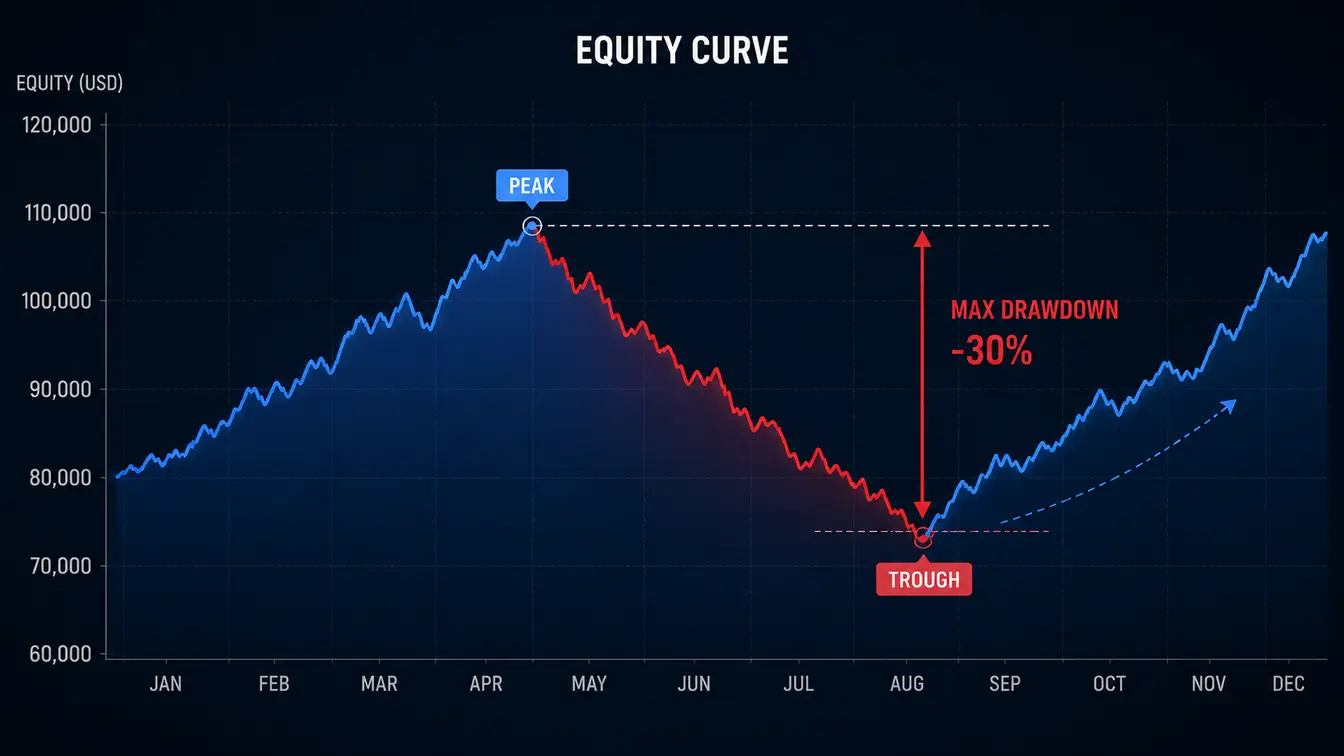
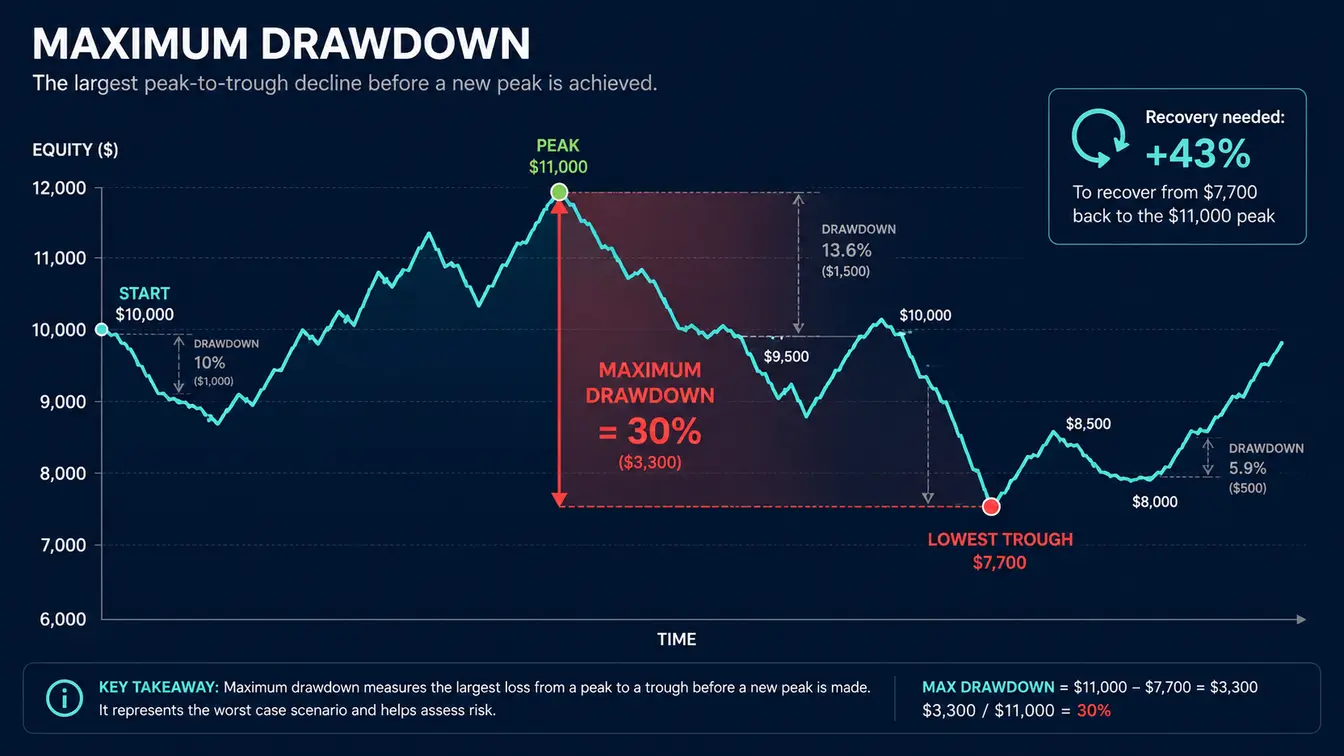
update

diff --git a/category/risk-management/risk-reward-ratio/index.html b/category/risk-management/risk-reward-ratio/index.html
@@ -102,7 +102,7 @@
         <!-- FEATURED IMAGE -->
         <div class="featured-image">
             <img src="risk-reward-featured.webp" 
-                 alt="Risk reward ratio — balance scale showing risk on one side and reward on the other with 1:2 ratio" 
+                 alt="Balance scale showing risk (1) on the left and reward (2) on the right with forex chart below — explaining 1:2 risk reward ratio" 
                  loading="eager"
                  width="800"
                  height="450">
@@ -321,7 +321,7 @@
             
             <p>I don't worry about my win rate. Some months I win 40% of my trades. Some months 55%. But because my average winner is 2-3 times larger than my average loser, I'm consistently profitable.</p>
             
-            <p><strong>Set your stop loss. Set your take profit. Calculate your risk reward. Never take a trade below 1:2. Do this, and the math will work in your favor.</strong></p>
+            <p><strong>Set your stop loss. Set your take profit. Calculate your risk reward. Never take a trade below 1:2. The math will work in your favor.</strong></p>
 
         </div>
 

diff --git a/category/risk-management/maximum-drawdown/index.html b/category/risk-management/maximum-drawdown/index.html
@@ -102,7 +102,7 @@
         <!-- FEATURED IMAGE -->
         <div class="featured-image">
             <img src="max-drawdown-featured.webp" 
-                 alt="Maximum drawdown chart showing peak to trough decline with red downward arrow and recovery line" 
+                 alt="Realistic equity chart with $11,000 peak and $7,700 trough — 30% maximum drawdown highlighted, with smaller 10% and 13.6% drawdowns along the way" 
                  loading="eager"
                  width="800"
                  height="450">
